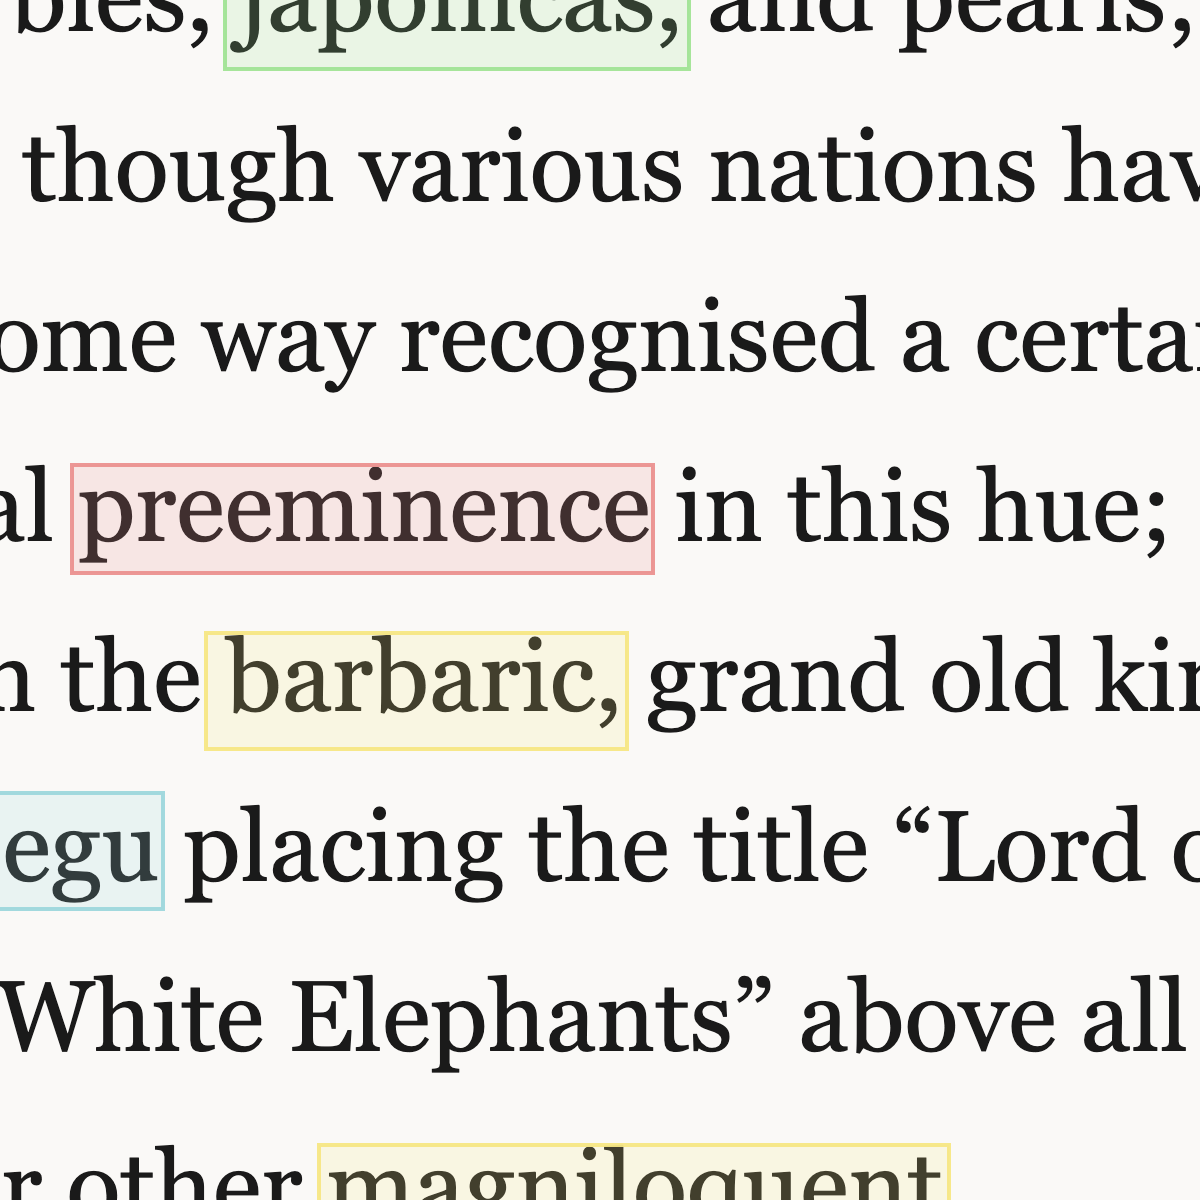
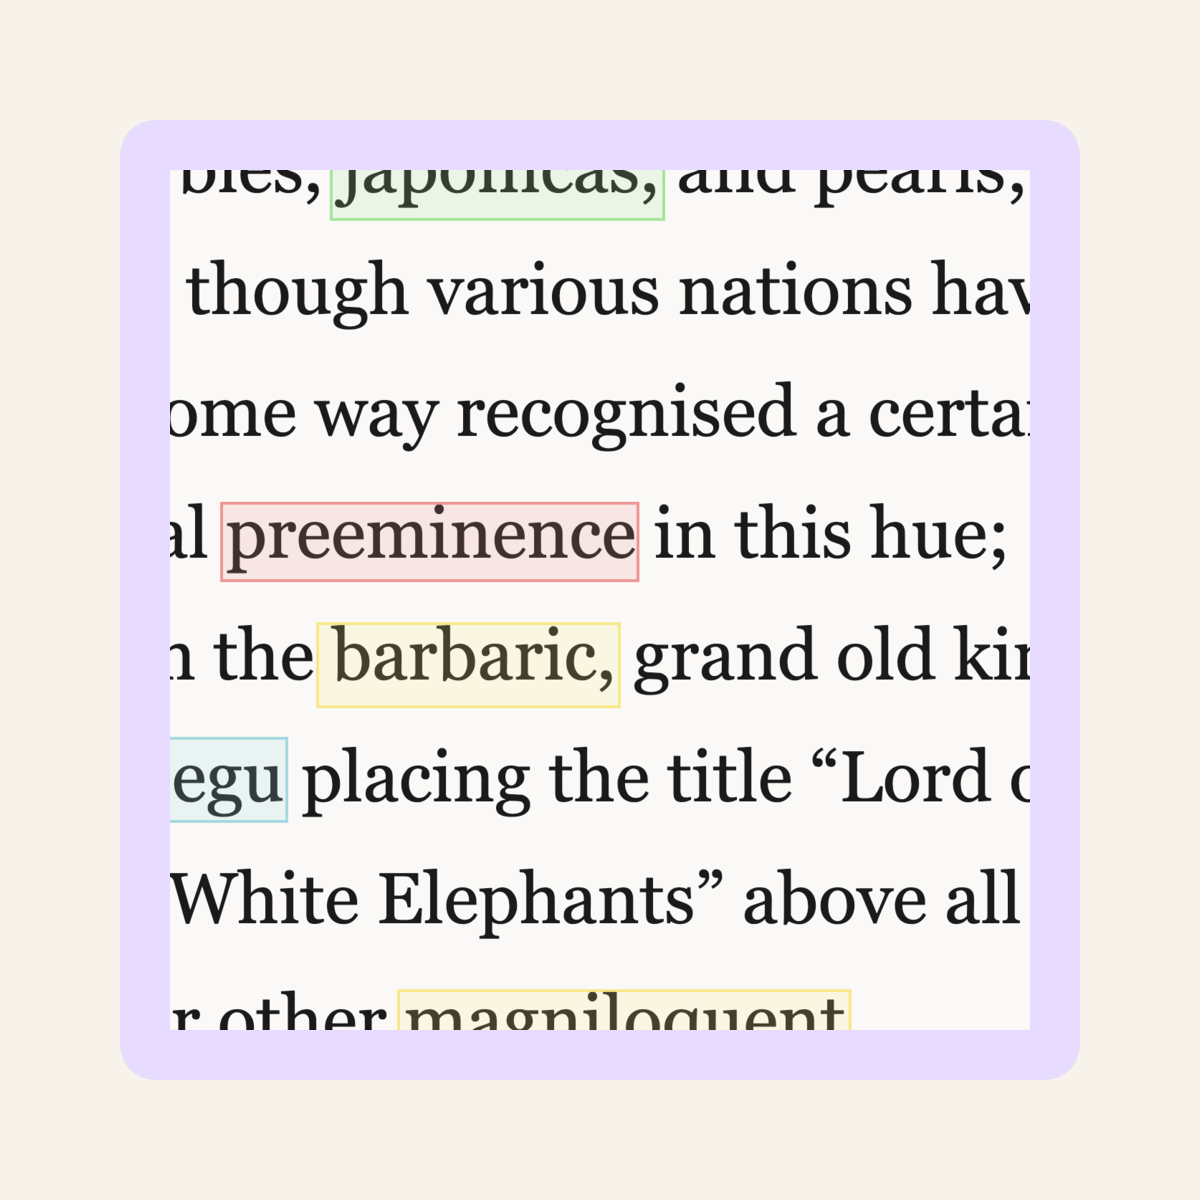
Rebuild Summa thumbnail matte

diff --git a/public/css/lanyon.css b/public/css/lanyon.css
@@ -302,10 +302,6 @@ a.pagination-item:hover {
 .project-thumb-link {
   display: block;
   cursor: zoom-in;
-  border-radius: 0.9rem;
-  border: 1px solid rgba(17, 17, 17, 0.12);
-  background: #f7f3eb;
-  padding: 0.45rem;
 }
 
 .project-thumb {
